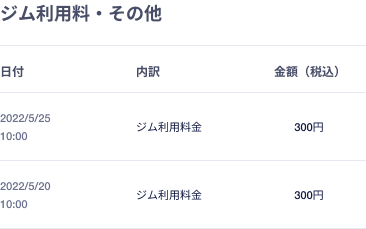
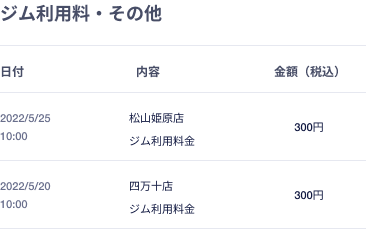
update payment confirm

Changed region(s): [[0.3306, 0.7642, 0.571, 0.9476], [0.3306, 0.4891, 0.571, 0.6419], [0.3907, 0.2751, 0.4508, 0.3362]]

diff --git a/105-jp.md b/105-jp.md
@@ -324,11 +324,15 @@
     - `1650円`：支払い金額（税込）
     - 支払い状態によって、アイコンが異なる
 - 支払い内容フォーマット。1つ目の日付は開始日、2つ目の日付は終了日：
-    - 基本料金：　`yyyy年mm月dd日からyyyy年mm月dd日の基本料金`
-    - 手ぶらde会員：　`yyyy年mm月dd日からyyyy年mm月dd日の手ぶらde会員`
-    - 水素水：　`yyyy年mm月dd日から2yyyy年mm月dd日の水素水`
+    - 新規入会時の6月分基本料金のキャンペーン：　`基本料金1650円の6ヶ月分支払い`
+    - 新規入会時の3月分基本料金のキャンペーン：　`基本料金1650円の3ヶ月分支払い+セキュリティ発行手数料3000円`
+    - 新規入会時のキャンペーンなし：　`基本料金1650円の1ヶ月 支払い+入会金2000円+セキュリティ発行手数料3000円`
+    - 月ごとの基本料金サブスクリプション：　`yyyy年mm月dd日からyyyy年mm月dd日の基本料金
+    - 月ごとの手ぶらde会員サブスクリプション：　`yyyy年mm月dd日からyyyy年mm月dd日の手ぶらde会員`
+    - 月ごとの水素水サブスクリプション：　`yyyy年mm月dd日から2yyyy年mm月dd日の水素水`
+    - 再入会：　`Pocket再入会金`
 - 例：　ユーザーは2022年1月10日にに手ぶら会員オプションと6月キャンペインを選択して、会員登録したユーケース：
-    - 2022年1月タブ：　`2022年1月10日から2022年7月9日の基本料金`　が表示される
+    - 2022年1月タブ：　`基本料金1650円の6ヶ月分支払い`　が表示される
     - 2022年3月タブ：　`2022年3月10日から2022年4月9日の手ぶらde会員`が表示される
     - 2022年7月タブ：　`2022年7月10日から2022年8月9日の基本料金` と　`2022年7月10日から2022年8月9日の手ぶらde会員`が表示される
 - 例： 2022年7月にお客さんのお金を引き落としましたが、カードの問題で決済できなかった。2022年8月に決済できても、その情報が2022年7月タブに表示される
@@ -344,8 +348,8 @@
     - `松山姫原店`：店舗名
     - `300円`：支払い金額（税込）
 - 支払い内容ケース：
-    - チェックイン：　`ジム利用料金`
-    - 手ぶら利用：　`ジム利用料金`
+    - チェックイン：　`松山姫原店ジム利用料金`
+    - 手ぶら利用：　`松山姫原店ジム利用料金`
 
 ### エラー一覧（Error List）
 

diff --git a/105-vn.md b/105-vn.md
@@ -324,11 +324,15 @@
     - `1650円`： Tiền thanh toán đã bao gôm thuế
     - Tình trạng thanh toán: thành công hoặc thất bại, tuỳ vào tình trạng thanh toán mà icon sẽ khác nhau
 - Format nội dung thanh toán. Ngày thứ nhất là ngày bắt đầu, ngày thứ 2 là ngày cuối có thể sử dụng dịch vụ của lần thanh toán này:
+    - Đăng kí mới 6 tháng campaign：　`基本料金1650円の6ヶ月分支払い`
+    - Đăng kí mới 3 tháng campaign：　`基本料金1650円の3ヶ月分支払い+セキュリティ発行手数料3000円`
+    - Đăng kí mới không chọn campaign：　`基本料金1650円の1ヶ月 支払い+入会金2000円+セキュリティ発行手数料3000円`
     - 基本料金 - monthly plan：　`yyyy年mm月dd日からyyyy年mm月dd日の基本料金`
     - 手ぶらde会員 - quần áo：　`yyyy年mm月dd日からyyyy年mm月dd日の手ぶらde会員`
     - 水素水 - nước：　`yyyy年mm月dd日から2yyyy年mm月dd日の水素水`
-- Ví dụ trường hợp user đăng kí campaign 6 tháng và option tebura
-    - Ở tab 2022年1月 sẽ hiển thị ：　`2022年1月10日から2022年7月9日の基本料金`
+    - Đăng kí lại: `Pocket再入会金`
+- Ví dụ trường hợp user đăng kí campaign 6 tháng và option tebura vào tháng 1/2022
+    - Ở tab 2022年1月 sẽ hiển thị ：　`基本料金1650円の6ヶ月分支払い`
     - Ở tab 2022年3月 sẽ hiển thị：　`2022年3月10日から2022年4月9日の手ぶらde会員`
     - Ở tab 2022年7月 sẽ hiển thị：　`2022年7月10日から2022年8月9日の基本料金` và　`2022年7月10日から2022年8月9日の手ぶらde会員`
 - Trường hợp thanh toán ở tháng 7 tuy nhiên thẻ khách bị lỗi, đến tháng 8 phần thanh toán đó mới thành công thì vẫn hiển thị thông tin thanh toán đó ở tab tháng 7
@@ -344,8 +348,8 @@
     - `松山姫原店`：tên gym
     - `300円`：Tiền thanh toán đã bao gôm thuế
 - Format nội dung thanh toán：
-    - Check-in：　`ジム利用料金`
-    - Sử dụng option quần áo- đối với user không đăng kí option quần áo：　`ジム利用料金`
+    - Check-in：　`松山姫原店ジム利用料金`. `松山姫原店` là tên gym 
+    - Sử dụng option quần áo- đối với user không đăng kí option quần áo：　`松山姫原店ジム利用料金`. `松山姫原店` là tên gym 
 
 ### Error List
 
